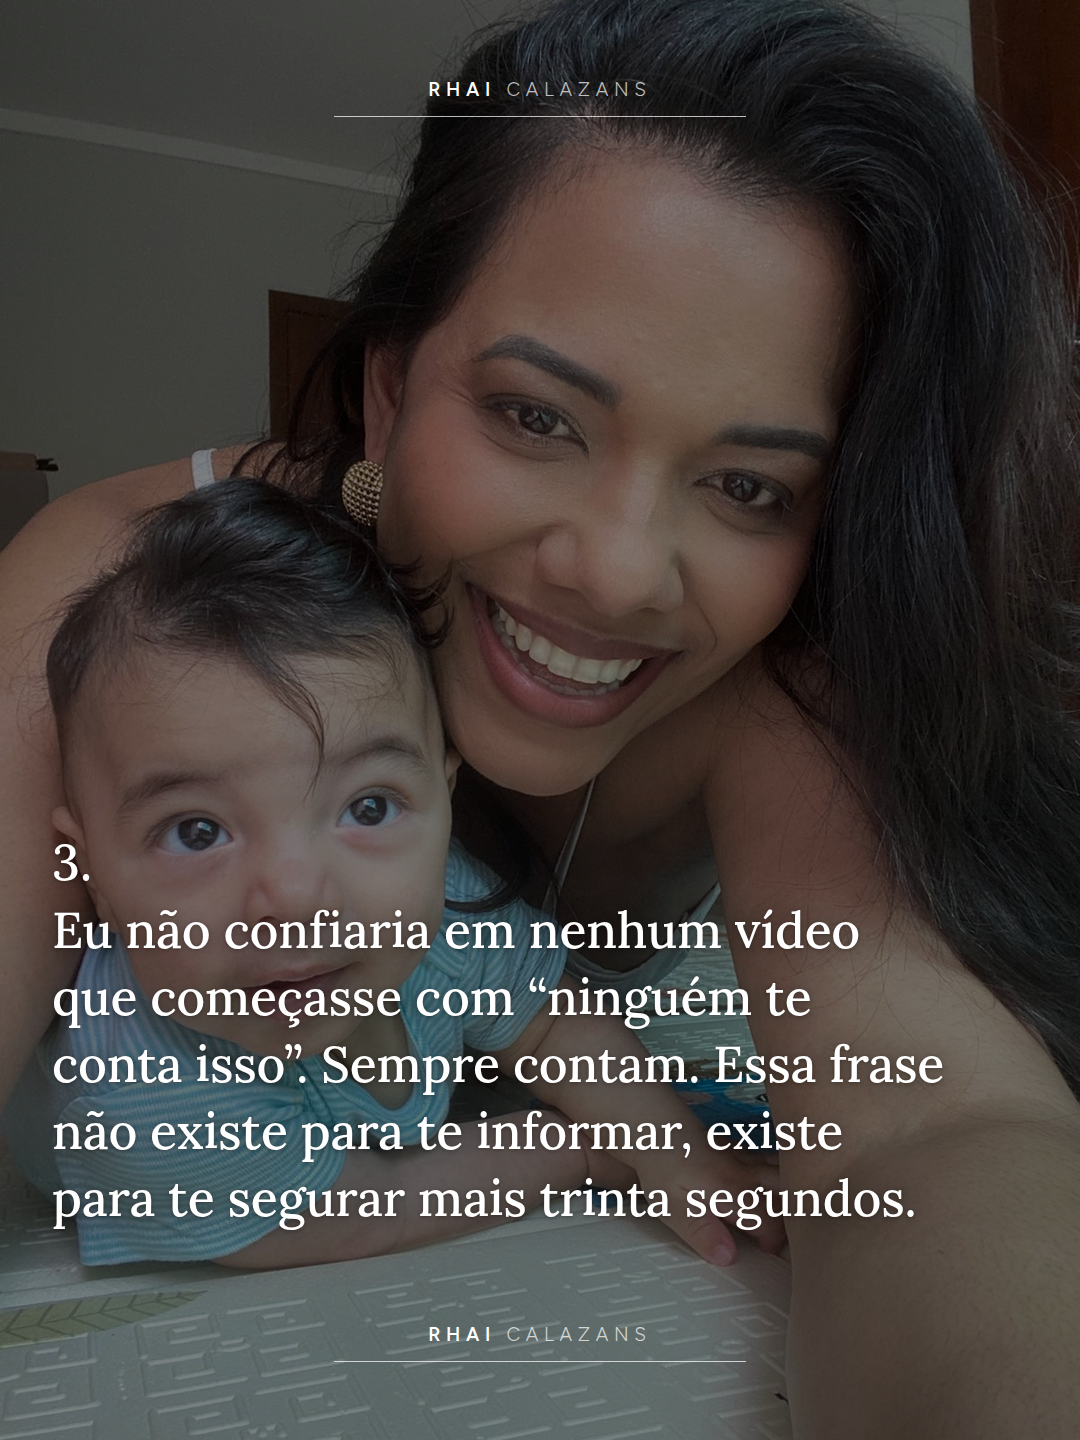
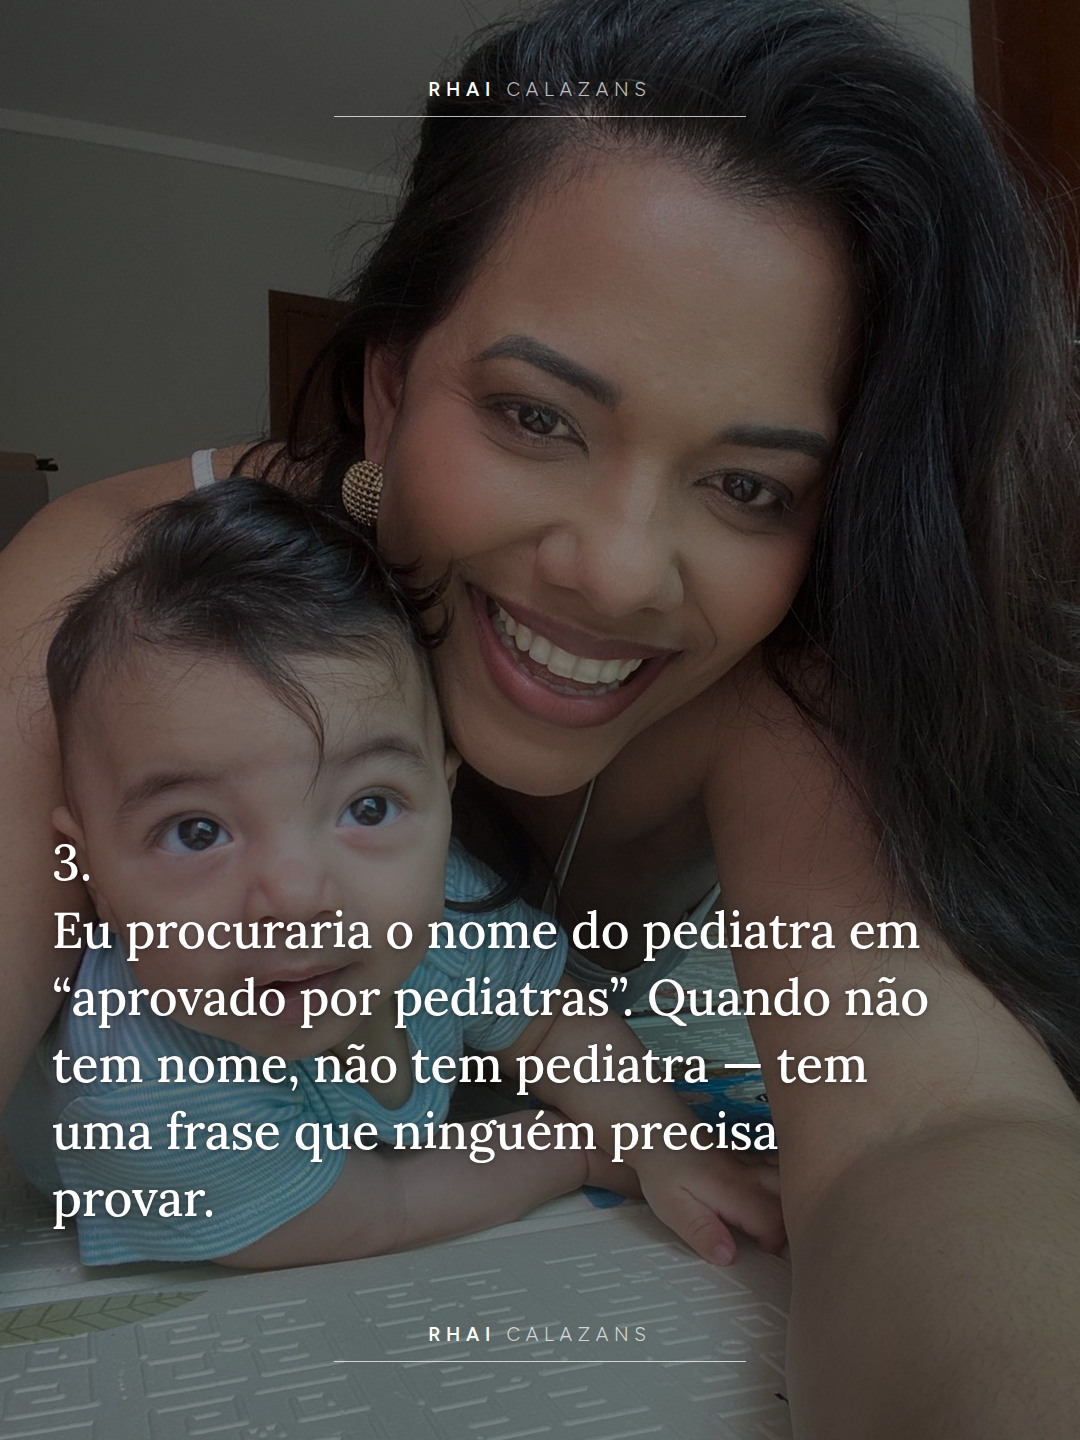
Reescreve o texto num fio só: as táticas usadas em mãe recém-parida
Segunda escrita depois de a cliente dizer que o texto precisava melhorar.
Três problemas reais na primeira:

- os itens 4 e 5 eram conteúdo da referência, não só forma dela. "Seguiria
  duas pessoas, não vinte" e "escolheria uma hora e sempre a mesma" são
  quase as frases da Dra. Dunnia. Copiar o dispositivo é aprender; copiar
  a ideia é outra coisa. Os dois saíram.
- os oito itens puxavam para três assuntos — manipulação de anúncio,
  rotina de trabalho e sentimento. Carrossel bom tem um fio só.
- o item 8 ("nenhuma das duas resolve o dia difícil") era bonito e vago,
  do tipo que soa bem e não deixa nada com quem lê.

O fio agora é único e é o que ela pode puxar sem concorrência: ela escreve
anúncio pra viver e virou alvo dos próprios truques. Cada item nomeia uma
tática real e entrega um teste que dá pra fazer amanhã — abrir o mesmo
anúncio três dias depois e ver se o contador de "últimas unidades"
reiniciou, procurar o nome do pediatra em "aprovado por pediatras", ler o
valor total antes do "12x de". Nomear o mecanismo é o que a referência faz
de melhor; dar o teste é o que sobra pra quem lê.

O item 4 assume o custo da honestidade — "inclusive por mim". Sem essa
linha é uma pessoa acusando o mercado; com ela é alguém contando como o
próprio trabalho funciona, que é o que dá autoridade.

O pedido de comentário também ficou mais fácil de atender: em vez de
perguntar em aberto, ela responde primeiro ("eu começo: a 7").
[…]

Changed region(s): [[0.0306, 0.625, 0.8861, 0.875]]

diff --git a/feed-30-dias/pessoal/05_se_eu_fosse_voce/10_fecho.html b/feed-30-dias/pessoal/05_se_eu_fosse_voce/10_fecho.html
@@ -67,6 +67,6 @@ body{font-family:'Figtree',system-ui,sans-serif}
       <div class="foto"></div><div class="placa topo"><div class="nome"><b>Rhai</b> <span>Calazans</span></div><div class="fio"></div></div><div class="placa base"><div class="nome"><b>Rhai</b> <span>Calazans</span></div><div class="fio"></div></div>
       <div class="campo">
         <div class="pilha sombra">Depois eu<br>também salvaria<br>este post</div>
-        <div class="pedidos"><div class="pedido"><i>i.</i><span>E mandaria para uma mãe que anda comprando demais de madrugada.</span></div><div class="pedido"><i>ii.</i><span>E comentaria qual delas eu já tinha deixado de fazer.</span></div><div class="pedido"><i>iii.</i><span>E voltaria aqui no primeiro dia difícil.</span></div></div>
+        <div class="pedidos"><div class="pedido"><i>i.</i><span>E mandaria pra uma amiga que está com o carrinho cheio às duas da manhã.</span></div><div class="pedido"><i>ii.</i><span>E comentaria qual dessas eu já tinha caído.</span></div><div class="pedido"><i>iii.</i><span>E voltaria aqui antes da próxima compra.</span></div></div>
       </div>
       </div></body></html>

diff --git a/feed-30-dias/pessoal/05_se_eu_fosse_voce/03_texto.html b/feed-30-dias/pessoal/05_se_eu_fosse_voce/03_texto.html
@@ -64,6 +64,6 @@ body{font-family:'Figtree',system-ui,sans-serif}
       <div class="foto"></div><div class="placa topo"><div class="nome"><b>Rhai</b> <span>Calazans</span></div><div class="fio"></div></div><div class="placa base"><div class="nome"><b>Rhai</b> <span>Calazans</span></div><div class="fio"></div></div>
       <div class="campo">
         <div class="num sombra">2.</div>
-        <div class="texto sombra">Antes de comprar qualquer coisa, eu esperaria vinte e quatro horas. Não por disciplina. Porque quase toda pressa que eu sinto foi colocada ali por alguém — e ela não sobrevive a um dia.</div>
+        <div class="texto sombra">Eu abriria o mesmo anúncio três dias depois. Se o contador de “últimas unidades” tivesse reiniciado, eu já saberia o que fazer com aquela pressa.</div>
       </div>
       </div></body></html>

diff --git a/feed-30-dias/pessoal/05_se_eu_fosse_voce/04_texto.html b/feed-30-dias/pessoal/05_se_eu_fosse_voce/04_texto.html
@@ -64,6 +64,6 @@ body{font-family:'Figtree',system-ui,sans-serif}
       <div class="foto"></div><div class="placa topo"><div class="nome"><b>Rhai</b> <span>Calazans</span></div><div class="fio"></div></div><div class="placa base"><div class="nome"><b>Rhai</b> <span>Calazans</span></div><div class="fio"></div></div>
       <div class="campo">
         <div class="num sombra">3.</div>
-        <div class="texto sombra">Eu não confiaria em nenhum vídeo que começasse com “ninguém te conta isso”. Sempre contam. Essa frase não existe para te informar, existe para te segurar mais trinta segundos.</div>
+        <div class="texto sombra">Eu procuraria o nome do pediatra em “aprovado por pediatras”. Quando não tem nome, não tem pediatra — tem uma frase que ninguém precisa provar.</div>
       </div>
       </div></body></html>

diff --git a/feed-30-dias/pessoal/05_se_eu_fosse_voce/08_texto.html b/feed-30-dias/pessoal/05_se_eu_fosse_voce/08_texto.html
@@ -64,6 +64,6 @@ body{font-family:'Figtree',system-ui,sans-serif}
       <div class="foto"></div><div class="placa topo"><div class="nome"><b>Rhai</b> <span>Calazans</span></div><div class="fio"></div></div><div class="placa base"><div class="nome"><b>Rhai</b> <span>Calazans</span></div><div class="fio"></div></div>
       <div class="campo">
         <div class="num sombra">7.</div>
-        <div class="texto sombra">Eu contaria pros meus clientes que tenho um bebê em casa. Não como desculpa — como horário. E descobriria, como descobri, que ninguém foi embora por causa disso.</div>
+        <div class="texto sombra">Eu leria o valor total antes do “12x de”. O parcelamento não foi inventado pra caber no seu mês. Foi inventado pra fazer o número parecer menor do que ele é.</div>
       </div>
       </div></body></html>

diff --git a/feed-30-dias/pessoal/05_se_eu_fosse_voce/09_texto.html b/feed-30-dias/pessoal/05_se_eu_fosse_voce/09_texto.html
@@ -64,6 +64,6 @@ body{font-family:'Figtree',system-ui,sans-serif}
       <div class="foto"></div><div class="placa topo"><div class="nome"><b>Rhai</b> <span>Calazans</span></div><div class="fio"></div></div><div class="placa base"><div class="nome"><b>Rhai</b> <span>Calazans</span></div><div class="fio"></div></div>
       <div class="campo">
         <div class="num sombra">8.</div>
-        <div class="texto sombra">Eu compraria menos coisa e tiraria mais foto. Nenhuma das duas resolve o dia difícil. Mas só uma delas continua valendo alguma coisa em dez anos.</div>
+        <div class="texto sombra">E eu não chamaria nada disso de desconfiança. Chamaria de parar de gastar, às duas da manhã, a única energia que me sobra decidindo uma coisa que alguém já decidiu por mim.</div>
       </div>
       </div></body></html>

diff --git a/feed-30-dias/pessoal/05_se_eu_fosse_voce/05_texto.html b/feed-30-dias/pessoal/05_se_eu_fosse_voce/05_texto.html
@@ -64,6 +64,6 @@ body{font-family:'Figtree',system-ui,sans-serif}
       <div class="foto"></div><div class="placa topo"><div class="nome"><b>Rhai</b> <span>Calazans</span></div><div class="fio"></div></div><div class="placa base"><div class="nome"><b>Rhai</b> <span>Calazans</span></div><div class="fio"></div></div>
       <div class="campo">
         <div class="num sombra">4.</div>
-        <div class="texto sombra">Eu seguiria duas pessoas, não vinte. E escolheria pelo que elas dizem quando não estão vendendo nada. Informação demais não organiza ninguém.</div>
+        <div class="texto sombra">Eu lembraria que ninguém filma a noite em que não funcionou. Todo depoimento é o melhor resultado de alguém, escolhido a dedo por quem está vendendo. Inclusive por mim.</div>
       </div>
       </div></body></html>

diff --git a/feed-30-dias/pessoal/05_se_eu_fosse_voce/06_texto.html b/feed-30-dias/pessoal/05_se_eu_fosse_voce/06_texto.html
@@ -64,6 +64,6 @@ body{font-family:'Figtree',system-ui,sans-serif}
       <div class="foto"></div><div class="placa topo"><div class="nome"><b>Rhai</b> <span>Calazans</span></div><div class="fio"></div></div><div class="placa base"><div class="nome"><b>Rhai</b> <span>Calazans</span></div><div class="fio"></div></div>
       <div class="campo">
         <div class="num sombra">5.</div>
-        <div class="texto sombra">Eu escolheria uma hora do dia que fosse só nossa e não entregaria ela pra ninguém. Nem pro trabalho, nem pro celular. Sempre a mesma hora.</div>
+        <div class="texto sombra">Quando um anúncio começasse com “não cometa esse erro”, eu perguntaria o que vem logo depois do medo. Se a resposta for um botão, o medo era o produto.</div>
       </div>
       </div></body></html>

diff --git a/feed-30-dias/conteudo_chique.py b/feed-30-dias/conteudo_chique.py
@@ -2,39 +2,32 @@
 """
 "Se eu fosse você, e tivesse acabado de virar mãe" — perfil @rhaicalazans.
 
-O TEXTO É O PONTO DESTE ARQUIVO. A cliente mandou o carrossel da
-@dradunniabaldissera como referência e eu tinha copiado só o desenho. Ao
-ler os textos dela de perto, o que sustenta aquele carrossel são cinco
-coisas, e o meu não tinha nenhuma:
+Segunda escrita. O que estava errado na primeira, item por item:
 
-1. UM MODO VERBAL SUSTENTADO. Dez slides inteiros no futuro do pretérito:
-   "eu faria", "eu estabeleceria", "não seguiria", "não confiaria". Não é
-   estilo, é dispositivo — segura o carrossel como uma peça só. Até o
-   pedido final dela obedece: "depois eu também curtiria este post".
+  4 e 5   eram conteúdo da referência, não só forma dela. "Seguiria duas
+          pessoas, não vinte" e "escolheria uma hora e sempre a mesma" são
+          quase as frases da Dra. Dunnia. Copiar o dispositivo é aprender;
+          copiar a ideia é outra coisa. Os dois saíram.
+  fio     os oito itens puxavam para três assuntos diferentes — manipulação
+          de anúncio, rotina de trabalho e sentimento. Carrossel bom tem um
+          fio só.
+  8       "nenhuma das duas resolve o dia difícil" era bonito e vago, do
+          tipo que soa bem e não deixa nada com quem lê.
 
-2. AÇÃO CONCRETA, NÃO SLOGAN. "Estabeleceria uma hora para iniciar o nosso
-   dia. Sempre a mesma." É coisa que se faz amanhã. Eu vinha escrevendo
-   "ter um horário e defender ele", que é frase de crachá.
+O fio agora é um só, e é o único que ela pode puxar sem concorrência:
+**ela escreve anúncio pra viver e virou alvo dos próprios truques.** Cada
+item nomeia uma tática real usada em mãe recém-parida e entrega um teste
+que dá pra fazer amanhã — abrir o anúncio três dias depois, procurar o
+nome do pediatra, ler o valor total antes do "12x". Nomear o mecanismo é o
+que a referência faz de melhor ("cutucando a minha dor"); dar o teste é o
+que sobra pra quem lê.
 
-3. UMA RESSALVA QUE PROVA PENSAMENTO. "Eu até pesquisaria na IA, mas não o
-   faria sem o apoio de alguém para confirmar." O "até... mas" é o que faz
-   soar gente pesando, e não copy.
+O item 4 assume o custo da honestidade — "inclusive por mim". Sem essa
+linha, o carrossel é uma pessoa acusando o mercado. Com ela, é alguém
+contando como o próprio trabalho funciona, que é o que dá autoridade.
 
-4. COMPRIMENTO. Duas a quatro frases por slide. Eu tinha cortado tanto que
-   não sobrou nada pra ler.
-
-5. UMA VERDADE QUE NINGUÉM DIZ EM VOZ ALTA. O item mais forte dela é o que
-   nomeia o mecanismo: "não confiaria em ninguém que me induzisse a comprar
-   algo para o meu filho cutucando a minha dor".
-
-O ângulo desta versão sai daí. A Rhaideline é mãe E escreve anúncio pra
-viver. Então ela é a pessoa que consegue mostrar, de dentro, como uma mãe
-recém-parida é alvo de marketing — e isso ninguém no nicho dela pode
-dizer com a mesma autoridade. É o item 5 da lista acima, aplicado ao que
-ela sabe de verdade.
-
-Nenhum conselho de sono, saúde ou amamentação: continua não sendo a área
-dela. Tudo aqui é sobre dinheiro, atenção e rotina, que é.
+Continua sem conselho de sono, saúde ou amamentação — não é a área dela.
+Aqui é dinheiro, atenção e persuasão, que é.
 """
 
 FOTO = "rhai-bebe2.jpg"
@@ -44,8 +37,6 @@ CARROSSEL = {
     "titulo": "Se eu fosse você, e tivesse acabado de virar mãe",
     "foto": FOTO,
     "slides": [
-        # capa_texto, não capa: a pilha gigante cobre os dois rostos com
-        # uma frase de nove palavras, e o rosto é metade do motivo do post
         ("capa_texto", dict(frase="Se eu fosse você, e tivesse acabado de virar mãe",
                             sub="eu faria todas estas coisas", n_linhas=4)),
 
@@ -55,24 +46,24 @@ CARROSSEL = {
          "é o que abre a carteira na última.")),
 
         ("texto", dict(numero=2, corpo=
-         "Antes de comprar qualquer coisa, eu esperaria vinte e quatro "
-         "horas. Não por disciplina. Porque quase toda pressa que eu sinto "
-         "foi colocada ali por alguém — e ela não sobrevive a um dia.")),
+         "Eu abriria o mesmo anúncio três dias depois. Se o contador de "
+         "“últimas unidades” tivesse reiniciado, eu já saberia o que fazer "
+         "com aquela pressa.")),
 
         ("texto", dict(numero=3, corpo=
-         "Eu não confiaria em nenhum vídeo que começasse com “ninguém te "
-         "conta isso”. Sempre contam. Essa frase não existe para te "
-         "informar, existe para te segurar mais trinta segundos.")),
+         "Eu procuraria o nome do pediatra em “aprovado por pediatras”. "
+         "Quando não tem nome, não tem pediatra — tem uma frase que "
+         "ninguém precisa provar.")),
 
         ("texto", dict(numero=4, corpo=
-         "Eu seguiria duas pessoas, não vinte. E escolheria pelo que elas "
-         "dizem quando não estão vendendo nada. Informação demais não "
-         "organiza ninguém.")),
+         "Eu lembraria que ninguém filma a noite em que não funcionou. "
+         "Todo depoimento é o melhor resultado de alguém, escolhido a dedo "
+         "por quem está vendendo. Inclusive por mim.")),
 
         ("texto", dict(numero=5, corpo=
-         "Eu escolheria uma hora do dia que fosse só nossa e não entregaria "
-         "ela pra ninguém. Nem pro trabalho, nem pro celular. Sempre a "
-         "mesma hora.")),
+         "Quando um anúncio começasse com “não cometa esse erro”, eu "
+         "perguntaria o que vem logo depois do medo. Se a resposta for um "
+         "botão, o medo era o produto.")),
 
         ("texto", dict(numero=6, corpo=
          "Quando alguém dissesse que eu estou “perdendo o melhor da vida "
@@ -80,37 +71,40 @@ CARROSSEL = {
          "existe, e quem usa sabe disso.")),
 
         ("texto", dict(numero=7, corpo=
-         "Eu contaria pros meus clientes que tenho um bebê em casa. Não "
-         "como desculpa — como horário. E descobriria, como descobri, que "
-         "ninguém foi embora por causa disso.")),
+         "Eu leria o valor total antes do “12x de”. O parcelamento não foi "
+         "inventado pra caber no seu mês. Foi inventado pra fazer o número "
+         "parecer menor do que ele é.")),
 
         ("texto", dict(numero=8, corpo=
-         "Eu compraria menos coisa e tiraria mais foto. Nenhuma das duas "
-         "resolve o dia difícil. Mas só uma delas continua valendo alguma "
-         "coisa em dez anos.")),
+         "E eu não chamaria nada disso de desconfiança. Chamaria de parar "
+         "de gastar, às duas da manhã, a única energia que me sobra "
+         "decidindo uma coisa que alguém já decidiu por mim.")),
 
         ("fecho", dict(frase="Depois eu também salvaria este post",
                        n_linhas=3,
-                       pedidos=[("i.", "E mandaria para uma mãe que anda comprando demais de madrugada."),
-                                ("ii.", "E comentaria qual delas eu já tinha deixado de fazer."),
-                                ("iii.", "E voltaria aqui no primeiro dia difícil.")])),
+                       pedidos=[("i.", "E mandaria pra uma amiga que está com o carrinho cheio às duas da manhã."),
+                                ("ii.", "E comentaria qual dessas eu já tinha caído."),
+                                ("iii.", "E voltaria aqui antes da próxima compra.")])),
     ],
     "legenda": """Se eu fosse você, e tivesse acabado de virar mãe, eu faria todas estas coisas.
 
-Eu escrevo anúncio pra viver. É o meu trabalho saber qual palavra faz alguém tirar o cartão do bolso — e depois que eu virei mãe, eu passei a ver esses mesmos truques virados contra mim.
+Eu escrevo anúncio pra viver. É o meu trabalho saber qual palavra faz alguém tirar o cartão do bolso.
 
-Então essa lista não é conselho de maternidade. Não é a minha área e eu não daria. É o que eu faria sabendo o que eu sei do outro lado.
+Depois que eu virei mãe, esses mesmos truques passaram a ser usados em mim — e de madrugada, que é quando funcionam melhor.
 
-O elogio na primeira linha do anúncio é o que abre a carteira na última. "Mãe que não abre mão" não é um carinho, é um gancho. A pressa que você sente às duas da manhã foi colocada ali por alguém, e ela quase nunca sobrevive a vinte e quatro horas.
+Então isso aqui não é conselho de maternidade. Não é a minha área e eu não daria. É o que eu faria sabendo o que eu sei do outro lado do anúncio.
 
-E a culpa — "você está perdendo o melhor da vida dele" — é o gatilho mais barato que existe. Quem usa sabe disso.
+O elogio da primeira linha ("mãe que não abre mão") é o que abre a carteira na última. O contador de "últimas unidades" reinicia sozinho — abre o mesmo anúncio três dias depois e você vê. "Aprovado por pediatras" sem nome de pediatra é uma frase que ninguém precisa provar. E o "12x de" existe pra fazer o número parecer menor do que ele é.
 
-A parte boa: nada aqui exige disciplina. Exige só saber o nome do que está acontecendo.
+O mais pesado de todos é a culpa. "Você está perdendo o melhor da vida dele" é o gatilho mais barato que existe, e quem usa sabe disso.
+
+Nada disso é sobre ser desconfiada. É sobre parar de gastar, às duas da manhã, a única energia que sobra decidindo uma coisa que alguém já decidiu por você.
 
 ━━━
 
 Depois eu também salvaria este post.
-E mandaria para uma mãe que anda comprando demais de madrugada.
+E mandaria pra uma amiga que está com o carrinho cheio agora.
+E comentaria qual dessas eu já tinha caído — eu começo: a 7.
 
-#maternidadereal #mãeempreendedora #publicidade #maternidadeeconsumo""",
+#maternidadereal #mãeempreendedora #maternidadeeconsumo #publicidade""",
 }
